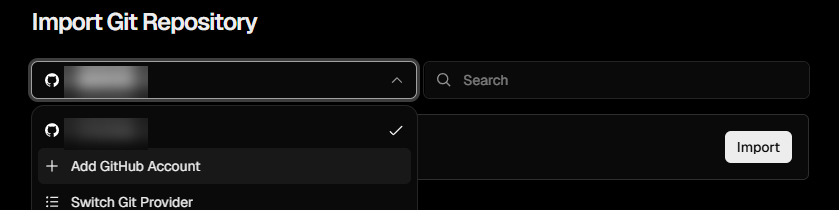
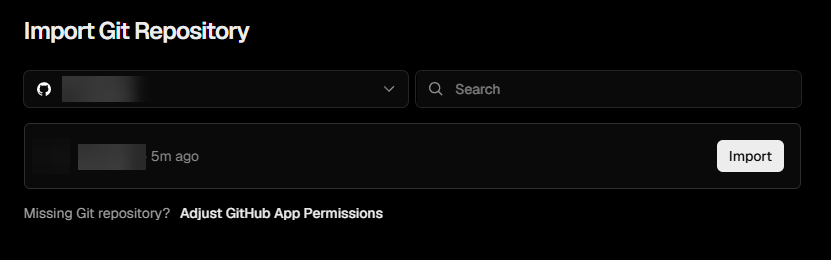
Add files via upload

diff --git a/assets/files/vibe-deploy-guide.html b/assets/files/vibe-deploy-guide.html
@@ -353,12 +353,13 @@ footer{background:var(--gray-100);border-top:2px solid var(--gold);padding:34px 
       <ol class="dos">
         <li>버셀에 로그인합니다. <b>깃허브 계정으로 로그인</b>하는 게 가장 편합니다.</li>
         <li>오른쪽 위 <kbd>Add New</kbd>를 누르고, 목록 맨 위 <kbd>Project</kbd>를 고릅니다.</li>
-        <li><kbd>Import Git Repository</kbd> 아래에 내 깃허브 계정 이름이 떠 있는지 확인합니다.</li>
-        <li>내 저장소 이름 옆 <kbd>Import</kbd>를 누릅니다.</li>
+        <li><kbd>Import Git Repository</kbd> 아래 내 깃허브 계정 이름을 확인합니다. 계정 목록이 아래로 펼쳐져 있으면 <kbd>Esc</kbd>를 눌러 닫습니다. 닫아야 뒤에 가려진 저장소 목록이 보입니다.</li>
+        <li>내 저장소 오른쪽 <kbd>Import</kbd>를 누릅니다. 목록이 길면 <kbd>Search</kbd> 칸에 이름을 쳐서 거릅니다.</li>
+        <li>저장소가 안 보이면 목록 아래 <kbd>Adjust GitHub App Permissions</kbd>를 눌러 <kbd>All repositories</kbd>(전체 허용)로 바꿉니다.</li>
       </ol>
       <figure class="shot"><svg viewBox="0 0 720 220" role="img" aria-label="03단계 실제 화면 · 버셀 첫 화면 오른쪽 위입니다."><rect x="0" y="0" width="720" height="220" fill="#0a0a0a"/><image href="/assets/files/g4-vercel-addnew.png" x="0" y="0" width="720" height="150"/><rect x="570" y="23" width="136" height="32" rx="6" fill="none" stroke="#c8973a" stroke-width="2.6"/><circle cx="638" cy="82" r="13.1" fill="#c8973a" stroke="#0a0a0a" stroke-width="2.0"/><text x="638" y="86.6" text-anchor="middle" class="s-numtxt" style="font-size:13.1px">1</text><polygon points="30,165 46,165 38,156" fill="#c8973a"/><rect x="0" y="165" width="720" height="46" rx="7" fill="#16160f" stroke="#33301f"/><circle cx="26" cy="188" r="11.1" fill="#c8973a"/><text x="26" y="192.2" text-anchor="middle" class="s-numtxt" style="font-size:11.6px">1</text><text x="48" y="193.0" fill="#fafaf8" class="s-bubtxt" style="font-size:13.6px">오른쪽 위 Add New를 누릅니다</text></svg><figcaption>03단계 실제 화면 · 버셀 첫 화면 오른쪽 위입니다.</figcaption></figure>
       <figure class="shot narrow"><img src="/assets/files/g5-addnew-menu.png" alt="Add New 메뉴: Project, Domain, Store, Integration, Team Member" width="128" height="274"><figcaption>03단계 실제 화면 · 맨 위 <b>Project</b>를 고릅니다. 아래 항목은 쓰지 않습니다.</figcaption></figure>
-      <figure class="shot"><svg viewBox="0 0 839 421" role="img" aria-label="03단계 실제 화면 · 저장소 목록이 비어 있으면 아래 “권한 조정” 링크를 눌러 전체 허용으로 바꿉니다."><rect x="0" y="0" width="839" height="421" fill="#0a0a0a"/><image href="/assets/files/g6-import-repo.png" x="0" y="0" width="839" height="210"/><rect x="33" y="62" width="382" height="36" rx="7" fill="none" stroke="#c8973a" stroke-width="3.0"/><circle cx="428" cy="80" r="15.2" fill="#c8973a" stroke="#0a0a0a" stroke-width="2.3"/><text x="428" y="85.4" text-anchor="middle" class="s-numtxt" style="font-size:15.2px">1</text><rect x="35" y="150" width="377" height="33" rx="7" fill="none" stroke="#c8973a" stroke-width="3.0"/><circle cx="430" cy="166" r="15.2" fill="#c8973a" stroke="#0a0a0a" stroke-width="2.3"/><text x="430" y="171.4" text-anchor="middle" class="s-numtxt" style="font-size:15.2px">2</text><rect x="725" y="130" width="67" height="33" rx="7" fill="none" stroke="#c8973a" stroke-width="3.0"/><circle cx="704" cy="146" r="15.2" fill="#c8973a" stroke="#0a0a0a" stroke-width="2.3"/><text x="704" y="151.4" text-anchor="middle" class="s-numtxt" style="font-size:15.2px">3</text><polygon points="35,228 54,228 45,217" fill="#c8973a"/><rect x="0" y="228" width="839" height="54" rx="8" fill="#16160f" stroke="#33301f"/><circle cx="30" cy="255" r="12.9" fill="#c8973a"/><text x="30" y="259.2" text-anchor="middle" class="s-numtxt" style="font-size:13.5px">1</text><text x="56" y="260.2" fill="#fafaf8" class="s-bubtxt" style="font-size:15.8px">내 깃허브 계정이 맞는지 확인</text><polygon points="35,292 54,292 45,281" fill="#c8973a"/><rect x="0" y="292" width="839" height="54" rx="8" fill="#16160f" stroke="#33301f"/><circle cx="30" cy="319" r="12.9" fill="#c8973a"/><text x="30" y="323.7" text-anchor="middle" class="s-numtxt" style="font-size:13.5px">2</text><text x="56" y="324.6" fill="#fafaf8" class="s-bubtxt" style="font-size:15.8px">다른 계정으로 가입했다면 여기서 추가</text><polygon points="35,356 54,356 45,346" fill="#c8973a"/><rect x="0" y="356" width="839" height="54" rx="8" fill="#16160f" stroke="#33301f"/><circle cx="30" cy="383" r="12.9" fill="#c8973a"/><text x="30" y="388.1" text-anchor="middle" class="s-numtxt" style="font-size:13.5px">3</text><text x="56" y="389.0" fill="#fafaf8" class="s-bubtxt" style="font-size:15.8px">내 저장소 이름 옆 Import를 누릅니다</text></svg><figcaption>03단계 실제 화면 · 저장소 목록이 비어 있으면 아래 “권한 조정” 링크를 눌러 전체 허용으로 바꿉니다.</figcaption></figure>
+      <figure class="shot"><svg viewBox="0 0 831 405" role="img" aria-label="03단계 실제 화면 · 계정 목록이 펼쳐져 있으면 닫아야 이 목록이 보입니다."><rect x="0" y="0" width="831" height="405" fill="#0a0a0a"/><image href="/assets/files/g6-import-repo.png" x="0" y="0" width="831" height="260"/><rect x="716" y="138" width="72" height="34" rx="7" fill="none" stroke="#c8973a" stroke-width="3.0"/><rect x="176" y="201" width="216" height="23" rx="7" fill="none" stroke="#c8973a" stroke-width="3.0"/><circle cx="698" cy="155" r="15.1" fill="#c8973a" stroke="#0a0a0a" stroke-width="2.3"/><text x="698" y="160.3" text-anchor="middle" class="s-numtxt" style="font-size:15.1px">1</text><circle cx="408" cy="213" r="15.1" fill="#c8973a" stroke="#0a0a0a" stroke-width="2.3"/><text x="408" y="218.3" text-anchor="middle" class="s-numtxt" style="font-size:15.1px">2</text><polygon points="35,277 53,277 44,267" fill="#c8973a"/><rect x="0" y="277" width="831" height="53" rx="8" fill="#16160f" stroke="#33301f"/><circle cx="30" cy="304" r="12.8" fill="#c8973a"/><text x="30" y="308.7" text-anchor="middle" class="s-numtxt" style="font-size:13.3px">1</text><text x="56" y="309.7" fill="#fafaf8" class="s-bubtxt" style="font-size:15.7px">내 저장소 오른쪽 Import를 누릅니다</text><polygon points="35,341 53,341 44,331" fill="#c8973a"/><rect x="0" y="341" width="831" height="53" rx="8" fill="#16160f" stroke="#33301f"/><circle cx="30" cy="368" r="12.8" fill="#c8973a"/><text x="30" y="372.6" text-anchor="middle" class="s-numtxt" style="font-size:13.3px">2</text><text x="56" y="373.5" fill="#fafaf8" class="s-bubtxt" style="font-size:15.7px">저장소가 안 보이면 여기를 눌러 전체 허용으로</text></svg><figcaption>03단계 실제 화면 · 계정 목록이 펼쳐져 있으면 닫아야 이 목록이 보입니다.</figcaption></figure>
       <div class="trap">
         <b>목록에 내 저장소가 없다면</b>
         저장소 목록 아래쪽의 깃허브 권한 조정 링크를 눌러 <kbd>All repositories</kbd>(전체 허용)로 바꾸세요.
@@ -379,12 +380,13 @@ footer{background:var(--gray-100);border-top:2px solid var(--gold);padding:34px 
     </div>
     <div class="step-body">
       <ol class="dos">
-        <li><kbd>Framework Preset</kbd> 칸을 봅니다. <kbd>Other</kbd>로 되어 있으면 그대로 두고, 다른 게 적혀 있으면 <kbd>Other</kbd>로 바꿉니다.</li>
-        <li>나머지 <kbd>Root Directory</kbd>, <kbd>Build Command</kbd> 같은 항목은 <b>절대 건드리지 않습니다.</b></li>
+        <li><kbd>Project Name</kbd> 칸에 이름이 자동으로 채워져 있습니다. <b>이 이름이 그대로 주소가 됩니다.</b> 바꾸려면 지금이 가장 쉽습니다.</li>
+        <li><kbd>Application Preset</kbd>이 <kbd>Other</kbd>인지 확인합니다. 다른 게 적혀 있으면 <kbd>Other</kbd>로 바꿉니다. (화면에 따라 <kbd>Framework Preset</kbd>이라고 적혀 있기도 한데 같은 칸입니다)</li>
+        <li><kbd>Root Directory</kbd>, <kbd>Build and Output Settings</kbd>, <kbd>Environment Variables</kbd>는 <b>절대 건드리지 않습니다.</b></li>
         <li><kbd>Deploy</kbd>를 누르고 기다립니다. 보통 1분 안에 끝납니다.</li>
         <li>축하 화면이 나오면 <kbd>Continue to Dashboard</kbd>를 누릅니다.</li>
       </ol>
-      <figure class="shot"><svg viewBox="0 0 460 292" role="img" aria-label="버셀 배포 설정 화면: Framework Preset을 Other로 두고 Deploy"><rect class="s-win" x=".5" y=".5" width="459" height="291" rx="7"/><path class="s-bar" d="M0 7a7 7 0 0 1 7-7h446 a7 7 0 0 1 7 7v17H0z"/><circle class="s-dot" cx="14" cy="12" r="3.5"/><circle class="s-dot" cx="26" cy="12" r="3.5"/><circle class="s-dot" cx="38" cy="12" r="3.5"/><rect class="s-url" x="56" y="6" width="150" height="12" rx="6"/><text class="s-txt" x="18" y="50">Configure Project</text><text class="s-dim" x="18" y="74">Framework Preset</text><rect class="s-box" x="18" y="82" width="180" height="28" rx="4"/><text class="s-txt" x="30" y="101">Other</text><path d="M180 93 l5 6 5-6" fill="none" stroke="#9e9c97" stroke-width="1.5"/><circle class="s-num" cx="210" cy="96" r="11"/><text class="s-numtxt" x="210" y="100" text-anchor="middle">1</text><polygon class="s-bub" points="222,96 231,91 231,101"/><rect class="s-bub" x="231" y="77" width="222" height="38" rx="6"/><text class="s-bubtxt" x="342" y="94" text-anchor="middle">Other인지 확인</text><text class="s-bubsub" x="342" y="110" text-anchor="middle">다르면 Other로 바꾸기</text><text class="s-dim" x="18" y="134">Root Directory</text><rect class="s-boxdim" x="18" y="142" width="180" height="26" rx="4"/><text class="s-dim" x="18" y="192">Build Command</text><rect class="s-boxdim" x="18" y="200" width="180" height="26" rx="4"/><circle class="s-num" cx="210" cy="184" r="11"/><text class="s-numtxt" x="210" y="188" text-anchor="middle">2</text><polygon class="s-bub" points="222,184 231,179 231,189"/><rect class="s-bub" x="231" y="165" width="200" height="38" rx="6"/><text class="s-bubtxt" x="331" y="182" text-anchor="middle">이 아래 항목은</text><text class="s-bubsub" x="331" y="198" text-anchor="middle">절대 손대지 않기</text><rect class="s-dark" x="18" y="242" width="110" height="32" rx="6"/><text class="s-btntxt" x="73" y="263" text-anchor="middle">Deploy</text><circle class="s-num" cx="150" cy="258" r="11"/><text class="s-numtxt" x="150" y="262" text-anchor="middle">3</text><polygon class="s-bub" points="162,258 171,253 171,263"/><rect class="s-bub" x="171" y="241" width="180" height="34" rx="6"/><text class="s-bubtxt" x="261" y="262" text-anchor="middle">1분이면 끝납니다</text></svg><figcaption>04단계 · <b>실제 캡처가 아직 없는 화면</b>입니다. 빈칸을 채우고 싶어지지만, 명함 한 장은 그대로 두는 게 정답입니다.</figcaption></figure>
+      <figure class="shot"><svg viewBox="0 0 726 961" role="img" aria-label="04단계 실제 화면 · 예전에 Framework Preset이던 칸 이름이 지금은 Application Preset입니다."><rect x="0" y="0" width="726" height="961" fill="#0a0a0a"/><image href="/assets/files/g7-configure.png" x="0" y="0" width="726" height="723"/><rect x="387" y="254" width="295" height="38" rx="6" fill="none" stroke="#c8973a" stroke-width="2.6"/><rect x="54" y="376" width="628" height="40" rx="6" fill="none" stroke="#c8973a" stroke-width="2.6"/><rect x="54" y="460" width="628" height="146" rx="6" fill="none" stroke="#c8973a" stroke-width="2.6"/><rect x="54" y="630" width="628" height="38" rx="6" fill="none" stroke="#c8973a" stroke-width="2.6"/><circle cx="366" cy="273" r="13.2" fill="#c8973a" stroke="#0a0a0a" stroke-width="2.0"/><text x="366" y="277.7" text-anchor="middle" class="s-numtxt" style="font-size:13.2px">1</text><circle cx="34" cy="396" r="13.2" fill="#c8973a" stroke="#0a0a0a" stroke-width="2.0"/><text x="34" y="400.7" text-anchor="middle" class="s-numtxt" style="font-size:13.2px">2</text><circle cx="34" cy="533" r="13.2" fill="#c8973a" stroke="#0a0a0a" stroke-width="2.0"/><text x="34" y="537.7" text-anchor="middle" class="s-numtxt" style="font-size:13.2px">3</text><circle cx="34" cy="649" r="13.2" fill="#c8973a" stroke="#0a0a0a" stroke-width="2.0"/><text x="34" y="653.7" text-anchor="middle" class="s-numtxt" style="font-size:13.2px">4</text><polygon points="30,738 47,738 39,729" fill="#c8973a"/><rect x="0" y="738" width="726" height="47" rx="7" fill="#16160f" stroke="#33301f"/><circle cx="26" cy="762" r="11.2" fill="#c8973a"/><text x="26" y="765.6" text-anchor="middle" class="s-numtxt" style="font-size:11.7px">1</text><text x="49" y="766.4" fill="#fafaf8" class="s-bubtxt" style="font-size:13.7px">여기 적힌 이름이 그대로 주소가 됩니다</text><polygon points="30,794 47,794 39,785" fill="#c8973a"/><rect x="0" y="794" width="726" height="47" rx="7" fill="#16160f" stroke="#33301f"/><circle cx="26" cy="817" r="11.2" fill="#c8973a"/><text x="26" y="821.4" text-anchor="middle" class="s-numtxt" style="font-size:11.7px">2</text><text x="49" y="822.2" fill="#fafaf8" class="s-bubtxt" style="font-size:13.7px">Other인지 확인. 다르면 Other로 바꿉니다</text><polygon points="30,850 47,850 39,841" fill="#c8973a"/><rect x="0" y="850" width="726" height="47" rx="7" fill="#16160f" stroke="#33301f"/><circle cx="26" cy="873" r="11.2" fill="#c8973a"/><text x="26" y="877.1" text-anchor="middle" class="s-numtxt" style="font-size:11.7px">3</text><text x="49" y="877.9" fill="#fafaf8" class="s-bubtxt" style="font-size:13.7px">이 세 칸은 절대 손대지 않습니다</text><polygon points="30,906 47,906 39,896" fill="#c8973a"/><rect x="0" y="906" width="726" height="47" rx="7" fill="#16160f" stroke="#33301f"/><circle cx="26" cy="929" r="11.2" fill="#c8973a"/><text x="26" y="932.9" text-anchor="middle" class="s-numtxt" style="font-size:11.7px">4</text><text x="49" y="933.7" fill="#fafaf8" class="s-bubtxt" style="font-size:13.7px">Deploy를 누르고 1분쯤 기다립니다</text></svg><figcaption>04단계 실제 화면 · 예전에 Framework Preset이던 칸 이름이 지금은 Application Preset입니다.</figcaption></figure>
       <div class="check">
         <div><b>여기까지 맞으면</b><kbd>Domains</kbd> 아래에 <code>내이름.vercel.app</code> 형태의 주소가 생깁니다. 눌러서 내 명함이 나오면 성공입니다.</div>
       </div>
@@ -403,7 +405,7 @@ footer{background:var(--gray-100);border-top:2px solid var(--gold);padding:34px 
     </div>
     <div class="step-body">
       <ol class="dos">
-        <li>주소가 길고 지저분하면 버셀에서 <kbd>Settings</kbd> → <kbd>General</kbd> → <kbd>Project Name</kbd>을 짧은 이름으로 바꿉니다. 주소도 같이 바뀝니다.</li>
+        <li>주소가 길고 지저분하면 버셀에서 <kbd>Settings</kbd> → <kbd>General</kbd> → <kbd>Project Name</kbd>을 짧은 이름으로 바꿉니다. 주소도 같이 바뀝니다. (04단계에서 미리 바꿔뒀다면 건너뜁니다)</li>
         <li>주소를 복사해 휴대폰 문자 앱에 붙여넣고 나에게 먼저 보내봅니다.</li>
         <li>보낸 문자를 <b>다른 사람 폰에서도</b> 한 번 열어보게 하세요. 내 폰에서만 열리는 경우는 없지만, 사진 깨짐은 남의 폰에서 먼저 보입니다.</li>
       </ol>
@@ -512,8 +514,8 @@ footer{background:var(--gray-100);border-top:2px solid var(--gold);padding:34px 
       <summary>배포가 빨간 Error로 끝났어요</summary>
       <div class="ans">
         <span class="cause">원인 · 설정을 하나 건드렸을 가능성이 큽니다</span>
-        HTML 파일 한 장짜리 명함은 <kbd>Framework Preset</kbd>이 <kbd>Other</kbd>여야 하고, 나머지는 비어 있어야 합니다.
-        버셀 <kbd>Settings</kbd> → <kbd>Build &amp; Development Settings</kbd>에서 직접 입력한 값이 있으면 지우고,
+        HTML 파일 한 장짜리 명함은 <kbd>Application Preset</kbd>(예전 이름 <kbd>Framework Preset</kbd>)이 <kbd>Other</kbd>여야 하고, 나머지는 비어 있어야 합니다.
+        버셀 <kbd>Settings</kbd> → <kbd>Build and Output Settings</kbd>에서 직접 입력한 값이 있으면 지우고,
         <kbd>Deployments</kbd>에서 <kbd>Redeploy</kbd>를 누르세요.<br><br>
         참고로 무료 요금제는 <b>하루 배포 횟수에 한도</b>가 있습니다. 수정을 수십 번 반복하면 잠시 막힐 수 있으니,
         고칠 내용을 모아서 한 번에 저장하는 습관이 좋습니다.
